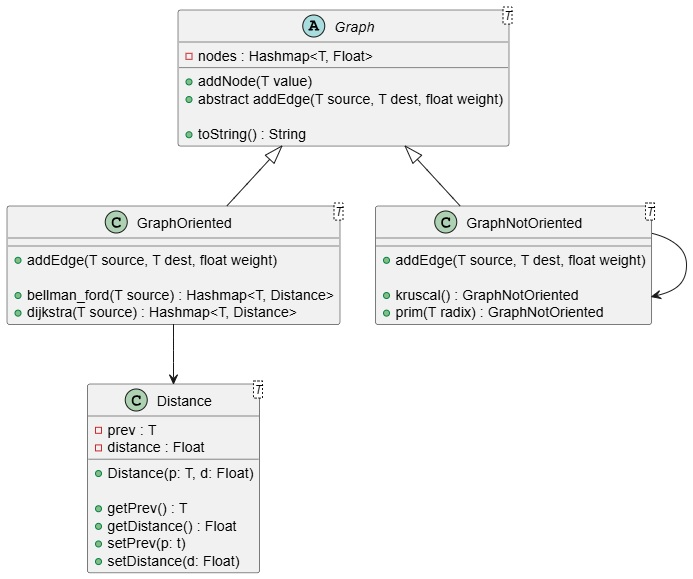
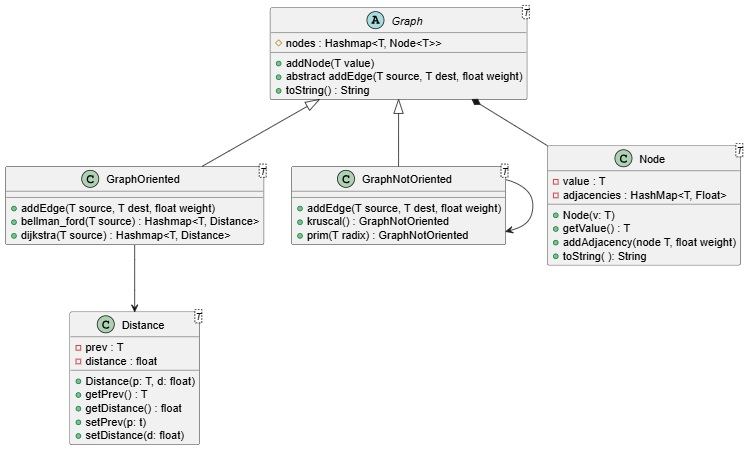
ToString Node

Changed region(s): [[0.0, 0.0, 1.0, 0.5911], [0.0909, 0.6222, 0.3939, 0.9956]]

diff --git a/src/Node.java b/src/Node.java
@@ -2,7 +2,7 @@ import java.util.HashMap;
 
 public class Node<T> {
     private final T value;
-    private HashMap<Node<T>,Float > adjacencies; // float is the weight of the arch
+    private final HashMap<Node<T>,Float > adjacencies = new HashMap<>(); // float is the weight of the arch
 
     public Node(T value){
         this.value = value;
@@ -17,11 +17,15 @@ public class Node<T> {
     }
 
     @Override
-    public String toString(){
+    public String toString() {
         StringBuilder sb = new StringBuilder();
-        this.adjacencies.forEach(((node, floating) -> {
-            sb.append(this.value).append(", ").append(node.value).append(", ").append(floating);
-        }));
+        sb.append(String.format("Value: %5s| Adjacencies:\n", this.value));
+
+        adjacencies.forEach((key, value) -> sb.append(String.format(
+                "                           [Value: %5s | Weight: %2s]\n",
+                key.getValue(),
+                value
+        )));
         return sb.toString();
     }
 }

diff --git a/src/Graph.java b/src/Graph.java
@@ -7,12 +7,20 @@ public abstract class Graph<T> {
     }
 
     public void addNode(T value){
-        if(!nodes.containsKey(n)){
-            nodes.put();
+        if(!nodes.containsValue(value)){
+            nodes.put(value,new Node<>(value));
         }else IO.println("Element already inside the graph.");
     }
 
     public void addEdge(T start, T dest, float weight){
         nodes.get(start).addAdj(nodes.get(dest), weight);
+    }
+
+    @Override
+    public String toString(){
+        StringBuilder sb = new StringBuilder();
+        this.nodes.forEach(
+                (key, value) -> sb.append(key).append(": ").append(value.toString()).append("\n"));
+        return sb.toString();
     }
 }

diff --git a/src/OrientedGraph.java b/src/OrientedGraph.java
@@ -1,7 +1,3 @@
 public class OrientedGraph<T> extends Graph<T>{
 
-    @Override
-    public void addEdge(Node<T> start, Node<T> dest, float weight){
-
-    }
 }

diff --git a/src/Main.java b/src/Main.java
@@ -1,3 +1,3 @@
 void main() {
-   
+
 }
